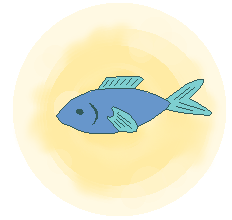
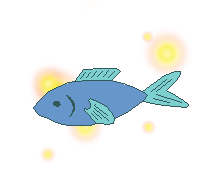
koodia ja kuvia muokattu

diff --git a/PingviiniPeli/PingviiniPeli/PingviiniPeli.cs b/PingviiniPeli/PingviiniPeli/PingviiniPeli.cs
@@ -23,9 +23,11 @@ public class PingviiniPeli : PhysicsGame
     private PlatformCharacter pelaaja1;
     private PhysicsObject merileopardi;
 
+    //TODO: vaihtoehtoinen kävely private Image[] pelaajanKavely = LoadImages("pingviinikavely.png", "pingviinikavely2", "pingviinikavely.png");
     private Image pelaajanKavely = LoadImage("pingviinikavely.png");
     private Image pelaajanKuva = LoadImage("pingviini.png");
     private Image pelaajaHyppy = LoadImage("pingviinihyppy.png");
+    private Image pelaajaPutoaa = LoadImage("pingviiniputoaa.png");
     private Image kalaKuva = LoadImage("kala.png");              //TODO: muokkaa kuvaa
     private Image merileopardiKuva = LoadImage("merileopardi.png");
     private Image taustakuva = LoadImage("tausta.png");          //TODO: muokkaa kuvaa
@@ -56,7 +58,8 @@ public class PingviiniPeli : PhysicsGame
 
     /// <summary>
     /// Aliohjelmassa luodaan kenttä käyttäen erillistä tekstitiedostoa.
-    /// Ks. Content kansiosta. # lisää tason, V lisää vettä, * lisää kalan, P lisää pelaajan 
+    /// Ks. Content kansiosta kentta1.txt
+    /// # lisää tason, V lisää vettä, * lisää kalan, P lisää pelaajan 
     /// ja M lisää merileopardin. 
     /// </summary>
     public void LuoKentta()
@@ -67,6 +70,7 @@ public class PingviiniPeli : PhysicsGame
         kentta.SetTileMethod('*', LisaaKala);
         kentta.SetTileMethod('P', LisaaPelaaja);
         kentta.SetTileMethod('M', LisaaMerileopardi);
+        kentta.SetTileMethod('§', LisaaMaali);
         kentta.Execute(RUUDUN_KOKO, RUUDUN_KOKO);
         Level.CreateBorders();
         //TODO: POISTA Level.Background.CreateGradient(Color.White, Color.SkyBlue);
@@ -101,14 +105,21 @@ public class PingviiniPeli : PhysicsGame
     {
         PhysicsObject vesi = PhysicsObject.CreateStaticObject(leveys, korkeus);
         vesi.Position = paikka;
-        vesi.Color = Color.Blue;
+        vesi.Color = Color.BlueGray; //TODO: Muuta tekstuuriksi
         vesi.IgnoresCollisionResponse = true;
         vesi.Tag = "vesi";
-        //TODO:Lisää tekstuuri
         Add(vesi);
     }
 
-
+    public void LisaaMaali(Vector paikka, double leveys, double korkeus)
+    {
+        PhysicsObject maali = PhysicsObject.CreateStaticObject(leveys, korkeus);
+        maali.Position = paikka;
+        maali.Color = Color.Red; //TODO: muuta kuvaksi
+        maali.IgnoresCollisionResponse = true;
+        maali.Tag = "maali";
+        Add(maali);
+    }
     //TODO: LisaaMaali
     //TODO: LisaaLaskuri INTMETER, mallia Pong-pelistä
 
@@ -144,7 +155,7 @@ public class PingviiniPeli : PhysicsGame
         merileopardi.Image = merileopardiKuva;
         merileopardi.Tag = "merileopardi";
         MerileopardiLiiku();
-        merileopardi.Mass = 1.0;
+        merileopardi.Mass = 10.0;
 
 
         Add(merileopardi);
@@ -153,25 +164,15 @@ public class PingviiniPeli : PhysicsGame
         // erillinen aliohjelmansa? liikkuu edestakaisin tiettyä väliä 
         // esim paikka -100 kääntyy takaisin ja liikkuu kunnes paikka + 100?
         
-
-
-
-
-
     }
 
 
     public void MerileopardiLiiku()
-    {
-
-
-        Vector liike = new Vector (1000,0)
+    { 
+        Vector liike = new Vector(1000, 0);             //TODO: hihasta vedetty
         merileopardi.Hit(liike);
         // vaihtoehtoisesti merileopardi.Move(liike); tai .MoveTo
-        //merileopardi.StopVertical();
-        //merileopardi.StopAngular();
-
-
+      
     }
 
 
@@ -190,12 +191,13 @@ public class PingviiniPeli : PhysicsGame
         pelaaja1.AnimWalk = new Animation(pelaajanKavely);      
         pelaaja1.AnimIdle = new Animation(pelaajanKuva);
         pelaaja1.AnimJump = new Animation(pelaajaHyppy);
-        //TODO: pelaaja1.AnimFall = new Animation();
+        pelaaja1.AnimFall = new Animation(pelaajaPutoaa);
 
 
         AddCollisionHandler(pelaaja1, "kala", TormaaKalaan);
         AddCollisionHandler(pelaaja1, "merileopardi", TormaaMerileopardiin);   //TODO: Pystyykö vettä ja merileopardeja yhdistämään samaan törmäykseen?
         AddCollisionHandler(pelaaja1, "vesi", TormaaVeteen);
+        AddCollisionHandler(pelaaja1, "maali", TormaaMaaliin);
         Add(pelaaja1);
     }
 
@@ -208,7 +210,6 @@ public class PingviiniPeli : PhysicsGame
     public void Liikuta(PlatformCharacter hahmo, double nopeus)
     {
         hahmo.Walk(nopeus);
-        
         
     }
 
@@ -263,6 +264,19 @@ public class PingviiniPeli : PhysicsGame
         MessageDisplay.Add("Voi ei, putosit veteen ja jouduit merileopardin kitaan"); //TODO: Poista? Muuta valikoksi?
         pelaaja1.Destroy();
         //TODO: pelille loppupiste
+    }
+
+
+    /// <summary>
+    /// Kun pelaajaa törmää maaliin kenttä loppuu ja kuuluu ääni.
+    /// </summary>
+    /// <param name="hahmo">Pelaajan hahmo</param>
+    /// <param name="maali">Tason loppu</param>
+    public void TormaaMaaliin (PhysicsObject hahmo, PhysicsObject maali)
+    {
+        MessageDisplay.Add("Onneksi olkoon! Pääsit turvallisesti kotiin");
+        //TODO: lopetusvalikko
+        //TODO: Lisää äänitehosteet
     }
 
 
